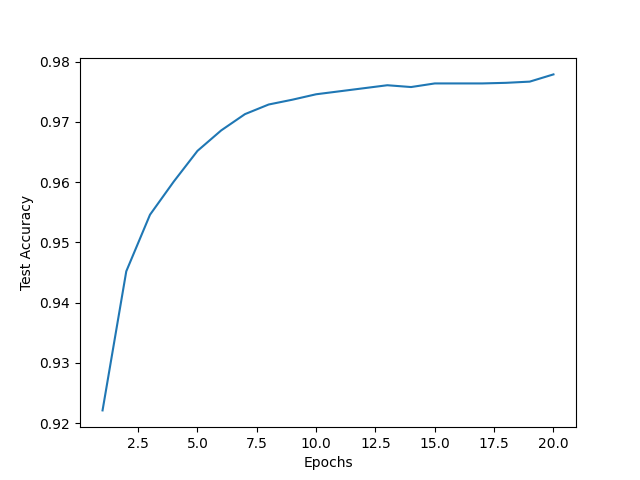
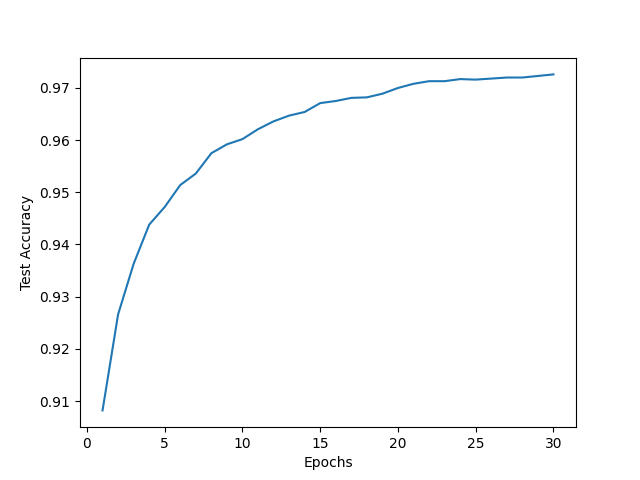
Final improvements

diff --git a/backprop_main.py b/backprop_main.py
@@ -140,12 +140,12 @@ def e():
     x_train, y_train, x_test, y_test = load_as_matrix_with_labels(50000, 10000)
 
     # Training configuration
-    epochs = 20
+    epochs = 30
     batch_size = 128
     learning_rate = 0.1
 
     # Network configuration
-    layer_dims = [784, 256, 32, 10]
+    layer_dims = [784, 64, 10]
 
     # Training
     net = Network(layer_dims)
@@ -167,3 +167,6 @@ def e():
 
     test_accuracy = res[4][-1]
     print(f"Final epoch test accuracy: {test_accuracy:.2f}")
+
+
+e()
